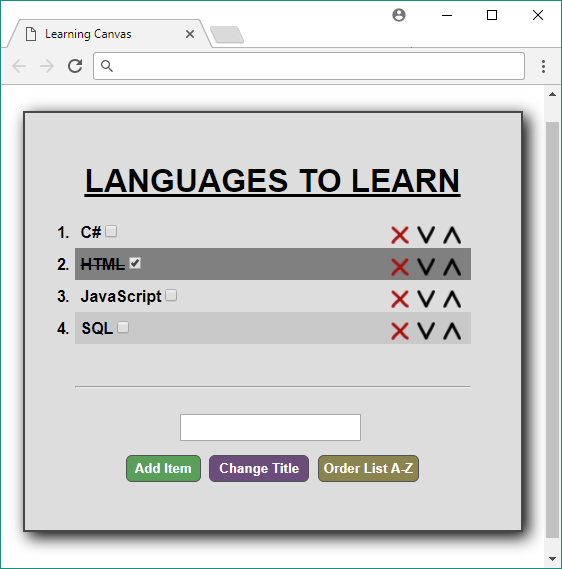
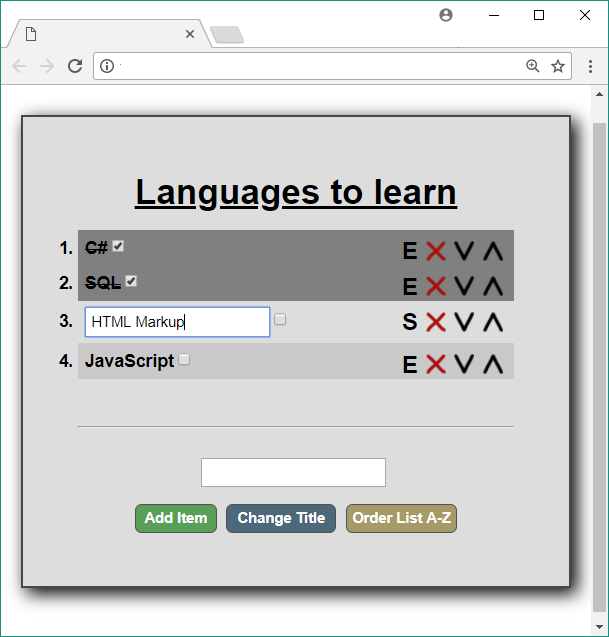
2.0

diff --git a/listProjFol/listProj.js b/listProjFol/listProj.js
@@ -2,7 +2,7 @@ window.addEventListener("load", function startPageEvent() {
 
     //These variables are declared to make reading/writing code a cleaner process.
     const listUl = document.querySelectorAll('ul')[0];
-    const listItems = listUl.children;
+    const listItems = listUl.getElementsByTagName('li');
     const listTitle = document.querySelector('#listTitle');
     const form = document.querySelector('#newItemForm');
 
@@ -11,6 +11,7 @@ window.addEventListener("load", function startPageEvent() {
     const changeTitleBtn = document.querySelector('button.newTitle');
     const addToListBtn = document.querySelector('button.newItem'); //type='submit'
     const newVal = document.querySelector('input.newValue'); //Input box
+    const tickBoxVal = document.querySelectorAll('.tickBox'); //Check box
 
     //Creates & appends buttons to list items then assigns the class name and text content.
     function attachButtons(li){
@@ -35,9 +36,15 @@ window.addEventListener("load", function startPageEvent() {
         remove.src = "listProjFol/RemoveBtn.png"
         li.appendChild(remove);
 
+        let edit = document.createElement('button');
+        edit.className = 'edit'
+        edit.textContent = 'E';
+        edit.id = 'funcBtn2';
+        li.appendChild(edit);
+
         let tickBox = document.createElement('input')
         tickBox.type = 'checkbox';
-        tickBox.className = 'complete';
+        tickBox.className = 'tickBox';
         li.appendChild(tickBox);
     }
 
@@ -47,9 +54,9 @@ window.addEventListener("load", function startPageEvent() {
 
     //Adds functionality to the buttons called above.
     listUl.addEventListener('click', (x) => {
+        let li = x.target.parentNode;
+        let ul = li.parentNode;
         if(x.target.tagName == 'INPUT'){
-            let li = x.target.parentNode;
-            let ul = li.parentNode;
             if(x.target.className == 'up'){   
                 let prevLi = li.previousElementSibling; 
                 if(prevLi){
@@ -64,6 +71,24 @@ window.addEventListener("load", function startPageEvent() {
                 ul.removeChild(li);
             }
         }
+        if(x.target.tagName == 'BUTTON' ){
+            if(x.target.textContent == 'E'){               
+                const span = li.firstElementChild;
+                const input = document.createElement('input');
+                input.type = 'text';
+                input.value = span.textContent;
+                li.insertBefore(input, span);
+                li.removeChild(span);
+                x.target.textContent = 'S';
+            } else if (x.target.textContent == 'S'){
+                const input = li.firstElementChild;
+                const span = document.createElement('span');
+                span.textContent = input.value;
+                li.insertBefore(span, input);
+                li.removeChild(input);
+                x.target.textContent = 'E';
+            }
+        }
     });
 
     //Gives the user a chance to tick/cross off items on the list by watching if the tickbox is checked.
@@ -73,12 +98,12 @@ window.addEventListener("load", function startPageEvent() {
 
         if (checkbox.checked) {
             listItemLine.style.backgroundColor = "grey";
-            listItemLine.style.color = "black";
             listItemLine.style.textDecoration = "line-through"
+            listItemLine.setAttribute('id', 'listChecked');
         } else {
             listItemLine.style.backgroundColor = "";
-            listItemLine.style.color = "black";
             listItemLine.style.textDecoration = ""
+            listItemLine.setAttribute('id', 'listUnchecked');
         }
     });
 
@@ -93,16 +118,18 @@ window.addEventListener("load", function startPageEvent() {
     form.addEventListener('submit', (e) => {
         e.preventDefault();
         let li = document.createElement('li');
+        let span = document.createElement('span');
+        li.appendChild(span);
         let listItemVar = newVal.value;
         listItemVar = upperFirst(listItemVar);
 
-        li.textContent = listItemVar
+        span.textContent = listItemVar
 
         //stop item insertion if box is empty or over 20 characters.
-        if (li.textContent != '' && li.textContent.length <= 20){
+        if (li.textContent != '' && li.textContent.length <= 25){
             listUl.appendChild(li);
         } else {
-            alert("Input must be between 1 and 20 characters long");
+            alert("Input must be between 1 and 25 characters long");
         }
         newVal.value = '';
         attachButtons(li);
@@ -115,23 +142,28 @@ window.addEventListener("load", function startPageEvent() {
         newVal.value = '';
     });
 
-    //Creates an array to store in each list item. It then sorts it from within the array and appends it to the list again.
-    orderListBtn.addEventListener('click', () => {
-        let listArr = [];
-        for (let i = 0; i < listItems.length; i++ ){  
-            listArr[i] = listItems[i].textContent;
-        }
-        console.log(listArr);
-        listArr.sort();
-        console.log(listArr);
+    //Checks each item in the list begins if their beginning letter is higher than it's neighbours.
+    //The switches are used to trigger the ordering 'insertBefore' function to correctly place each list item if the above case is true.
+    orderListBtn.addEventListener('click', (x) => {
+        let switching = true;
+        let shouldSwitch;
+        let i;
 
-        //Removes the unordered list and replaces it with the ordered list from the array.
-        for (let item of listArr){
-            listUl.removeChild(document.querySelectorAll('li')[0]);
-            let li = document.createElement('li');
-            li.innerHTML = item;
-            listUl.appendChild(li);
-            attachButtons(li);
+        while(switching){
+            switching = false;
+
+            for(i=0;i<(listItems.length - 1);i++){
+                shouldSwitch = false;
+                if (listItems[i].textContent > listItems[i+1].textContent){
+                    shouldSwitch = true;
+                    break;
+                }
+            }
+            if (shouldSwitch){
+                listItems[i].parentNode.insertBefore(listItems[i + 1], listItems[i]);
+                switching = true;
+            }
         }
     });
+
 });

diff --git a/ListCreator.html b/ListCreator.html
@@ -1,7 +1,7 @@
 <!DOCTYPE html>
 <html>
     <head> 
-        <title>Learning Canvas</title>
+        <title>List Creator</title>
         <link rel="stylesheet" type="text/css" href="listProjFol/listProjStyle.css"/>
     </head>
 
@@ -13,10 +13,10 @@
 
             <div>
                 <ul>
-                    <li>JavaScript</li>
-                    <li>C#</li>
-                    <li>SQL</li>
-                    <li>HTML</li>
+                    <li><span>JavaScript</span></li>
+                    <li><span>C#</span></li>
+                    <li><span>SQL</span></li>
+                    <li><span>HTML</span></li>
                 </ul> <br/>
                 <hr/>
             </div>

diff --git a/listProjFol/listProjStyle.css b/listProjFol/listProjStyle.css
@@ -31,6 +31,21 @@ button {
     height: 18px;
 }
 
+#funcBtn2 {
+    float:right;
+    color: black;
+}
+
+button.edit {
+    font-size: 22px;
+    background-color: transparent;
+    border-radius: 0%;
+    border: none;
+    padding: 1px 1px 1px 1px;
+    position: relative;
+    top: -2px;
+}
+
 button.newItem  {
     background-color: rgb(89, 158, 89);
     width: 75px;
